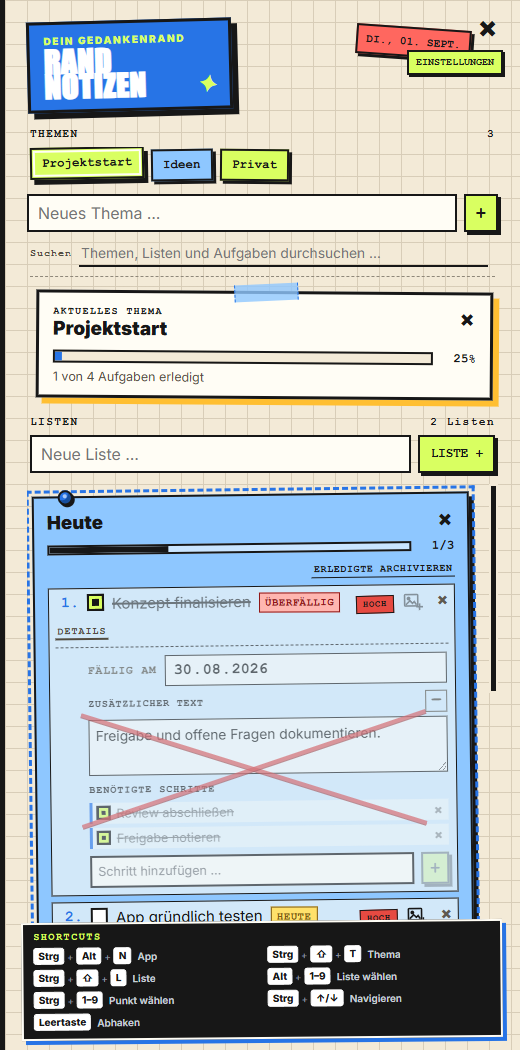
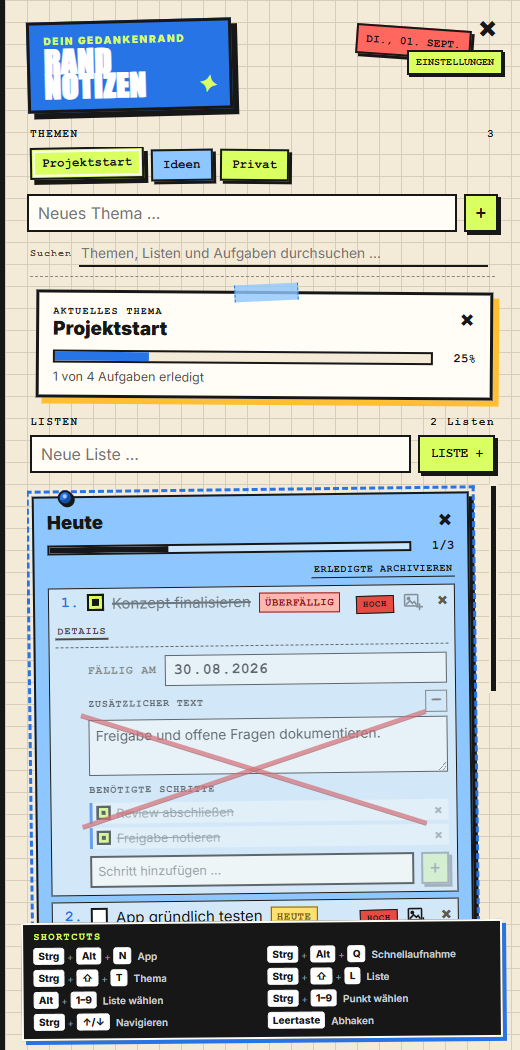
feat: release 0.2.3

Changed region(s): [[0.4923, 0.8838, 0.8615, 1.0], [0.0615, 0.9143, 0.3385, 1.0], [0.1231, 0.3352, 0.2769, 0.3657]]

diff --git a/src/renderer/renderer.js b/src/renderer/renderer.js
@@ -54,6 +54,13 @@ const themeColor = document.querySelector('#theme-color');
 const shortcutDock = document.querySelector('#shortcut-dock');
 const shortcutDockToggle = document.querySelector('#shortcut-dock-toggle');
 const panelElement = document.querySelector('.panel');
+const quickCaptureOverlay = document.querySelector('#quick-capture-overlay');
+const quickCaptureForm = document.querySelector('#quick-capture-form');
+const quickCaptureList = document.querySelector('#quick-capture-list');
+const quickCaptureInput = document.querySelector('#quick-capture-input');
+const quickCaptureEmpty = document.querySelector('#quick-capture-empty');
+const quickCaptureSubmit = document.querySelector('#quick-capture-submit');
+const closeQuickCaptureButton = document.querySelector('#close-quick-capture-button');
 
 const {
   normalizeLanguage,
@@ -394,6 +401,30 @@ function migrateWorkspace(loaded) {
 
 function activeTopic() {
   return workspace.topics.find((topic) => topic.id === workspace.activeTopicId) || null;
+}
+
+function openQuickCapture() {
+  quickCaptureList.replaceChildren();
+  const lists = workspace.topics.flatMap((topic) => topic.lists.map((list) => ({ topic, list })));
+  for (const { topic, list } of lists) {
+    const option = document.createElement('option');
+    option.value = list.id;
+    option.textContent = `${topic.title} · ${list.title}`;
+    quickCaptureList.append(option);
+  }
+  quickCaptureList.value = selectedShortcutListId || activeTopic()?.lists[0]?.id || '';
+  const empty = !lists.length;
+  quickCaptureEmpty.hidden = !empty;
+  quickCaptureList.disabled = empty;
+  quickCaptureInput.disabled = empty;
+  quickCaptureSubmit.disabled = empty;
+  quickCaptureInput.value = '';
+  quickCaptureOverlay.hidden = false;
+  requestAnimationFrame(() => (empty ? closeQuickCaptureButton : quickCaptureInput).focus());
+}
+
+function closeQuickCapture() {
+  quickCaptureOverlay.hidden = true;
 }
 
 function findList(listId) {
@@ -1280,6 +1311,22 @@ confirmOverlay.addEventListener('click', (event) => {
   if (event.target === confirmOverlay) finishConfirmation(false);
 });
 closeImagePreviewButton.addEventListener('click', closeImagePreview);
+closeQuickCaptureButton.addEventListener('click', closeQuickCapture);
+quickCaptureOverlay.addEventListener('click', (event) => {
+  if (event.target === quickCaptureOverlay) closeQuickCapture();
+});
+quickCaptureForm.addEventListener('submit', async (event) => {
+  event.preventDefault();
+  const list = findList(quickCaptureList.value);
+  const text = quickCaptureInput.value.trim();
+  if (!list || !text) return quickCaptureInput.focus();
+  const item = { id: createId(), text, completed: false, details: '', priority: 'none', archived: false, image: null, dueDate: '', steps: [] };
+  list.items.push(item);
+  renderMotion = { type: 'item-add', id: item.id };
+  await persist();
+  closeQuickCapture();
+  render();
+});
 removePreviewImageButton.addEventListener('click', async () => {
   if (!previewedItem || previewedItem.completed) return;
   previewedItem.image = null;
@@ -1295,6 +1342,7 @@ document.addEventListener('keydown', (event) => {
   if (!confirmOverlay.hidden) finishConfirmation(false);
   else if (!settingsOverlay.hidden) closeSettingsPopover();
   else if (!imageOverlay.hidden) closeImagePreview();
+  else if (!quickCaptureOverlay.hidden) closeQuickCapture();
 });
 
 function matchesModifiers(event, { control = false, alt = false, shift = false }) {
@@ -1397,7 +1445,7 @@ document.addEventListener('keydown', (event) => {
     undoLastDelete();
     return;
   }
-  if (!confirmOverlay.hidden || !settingsOverlay.hidden || !imageOverlay.hidden) return;
+  if (!confirmOverlay.hidden || !settingsOverlay.hidden || !imageOverlay.hidden || !quickCaptureOverlay.hidden) return;
   if (handleSearchNavigation(event)) return;
   if (handleTaskNumberShortcut(event)) return;
   if (handleTaskNavigationShortcut(event)) return;
@@ -1442,6 +1490,7 @@ globalThis.notesApp.onLanguageChanged((language) => {
   render();
 });
 globalThis.notesApp.onDesignChanged(applyDesign);
+globalThis.notesApp.onQuickCapture(openQuickCapture);
 
 async function initialize() {
   updateTextScale();

diff --git a/src/renderer/styles.css b/src/renderer/styles.css
@@ -771,6 +771,39 @@ button:disabled { cursor: not-allowed; opacity: .42; }
 .image-preview-actions { display: flex; justify-content: flex-end; }
 .image-preview-remove { font-size: calc(9px * var(--text-scale)); }
 
+.quick-capture-overlay {
+  position: absolute;
+  z-index: 32;
+  inset: 0;
+  display: grid;
+  place-items: center;
+  padding: 28px;
+  background: #17171773;
+  backdrop-filter: blur(2px);
+  animation: overlay-fade-in var(--motion-normal) ease both;
+}
+.quick-capture-card {
+  width: min(100%, 400px);
+  display: grid;
+  gap: 14px;
+  padding: 18px;
+  color: #171717;
+  background: #fffdf5;
+  border: 3px solid #171717;
+  box-shadow: 8px 8px 0 #8ec7ff;
+  transform: rotate(.4deg);
+  animation: note-rise-in var(--motion-slow) var(--motion-ease) both;
+}
+.quick-capture-card header { display: flex; align-items: flex-start; justify-content: space-between; gap: 12px; }
+.quick-capture-card .composer-label { margin: 0 0 3px; }
+.quick-capture-card h2 { margin: 0; font-size: calc(17px * var(--text-scale)); }
+#quick-capture-form { display: grid; gap: 11px; }
+#quick-capture-form label { display: grid; gap: 4px; color: #514b40; font-family: "Courier New", monospace; font-size: calc(9px * var(--text-scale)); font-weight: 900; letter-spacing: .04em; }
+#quick-capture-form select, #quick-capture-form input { min-width: 0; border: 2px solid #171717; border-radius: 0; padding: 9px 10px; color: #171717; background: #fffdf5; font: inherit; font-size: calc(12px * var(--text-scale)); }
+#quick-capture-form select:focus-visible, #quick-capture-form input:focus-visible { outline: 3px solid #8ec7ff; outline-offset: 1px; }
+#quick-capture-submit { justify-self: end; }
+#quick-capture-empty { margin: 0; color: #b82923; font-family: "Courier New", monospace; font-size: calc(10px * var(--text-scale)); font-weight: 900; }
+
 .shortcut-dock {
   position: absolute;
   z-index: 4;
@@ -925,6 +958,10 @@ html[data-theme="dark"] .image-preview-card { color: #d7d1c5; background: #18222
 html[data-theme="dark"] .image-preview-close { color: #171717; }
 html[data-theme="dark"] #task-image-preview { border-color: #7f909c; background: #111a22; }
 html[data-theme="dark"] #image-preview-name { color: #b4bec3; }
+html[data-theme="dark"] .quick-capture-card { color: #d7d1c5; background: #18222d; border-color: #d7d1c5; box-shadow: 8px 8px 0 #8ec7ff; }
+html[data-theme="dark"] .quick-capture-card .delete-button { color: #f4efe3; }
+html[data-theme="dark"] #quick-capture-form label { color: #b4bec3; }
+html[data-theme="dark"] #quick-capture-form select, html[data-theme="dark"] #quick-capture-form input { color: #f4efe3; background: #111a22; border-color: #7f909c; }
 html[data-theme="dark"] .item-description,
 html[data-theme="dark"] .substep-item { background: #111a22; border-color: #7f909c; }
 html[data-theme="dark"] .priority-sticker.priority-none { color: #f4efe3; background: transparent; border-color: #7f909c; }

diff --git a/tests/renderer.test.js b/tests/renderer.test.js
@@ -50,7 +50,7 @@ async function bootRenderer(loadedWorkspace) {
       autostartUpdates.push(enabled);
       return enabled;
     },
-    getVersion: async () => '0.2.2',
+    getVersion: async () => '0.2.3',
     getInstallPath: async () => 'C:\\Programme\\Randnotizen',
     chooseTaskImage: async () => ({
       canceled: false,
@@ -60,6 +60,7 @@ async function bootRenderer(loadedWorkspace) {
     onPanelState: (callback) => { callbacks.panelState = callback; },
     onLanguageChanged: (callback) => { callbacks.languageChanged = callback; },
     onDesignChanged: (callback) => { callbacks.designChanged = callback; },
+    onQuickCapture: (callback) => { callbacks.quickCapture = callback; },
   };
 
   globalThis.document = dom.window.document;
@@ -98,6 +99,34 @@ test.afterEach(() => {
   delete globalThis.RandnotizenI18n;
   delete globalThis.notesApp;
   delete globalThis.requestAnimationFrame;
+});
+
+test('renderer adds a task to the selected list through quick capture', async () => {
+  const { dom, saved, callbacks } = await bootRenderer({
+    version: 6,
+    activeTopicId: 'topic-a',
+    topics: [
+      { id: 'topic-a', title: 'Arbeit', lists: [{ id: 'list-a', title: 'Heute', items: [] }] },
+      { id: 'topic-b', title: 'Privat', lists: [{ id: 'list-b', title: 'Einkaufen', items: [] }] },
+    ],
+  });
+  const { document } = dom.window;
+
+  callbacks.quickCapture();
+  assert.equal(document.querySelector('#quick-capture-overlay').hidden, false);
+  assert.equal(document.querySelector('#quick-capture-list').options.length, 2);
+  assert.equal(document.activeElement, document.querySelector('#quick-capture-input'));
+
+  document.querySelector('#quick-capture-list').value = 'list-b';
+  document.querySelector('#quick-capture-input').value = 'Milch kaufen';
+  document.querySelector('#quick-capture-form').dispatchEvent(new dom.window.Event('submit', {
+    bubbles: true,
+    cancelable: true,
+  }));
+  await flush();
+
+  assert.equal(document.querySelector('#quick-capture-overlay').hidden, true);
+  assert.equal(saved.at(-1).topics[1].lists[0].items[0].text, 'Milch kaufen');
 });
 
 test('renderer supports topics, lists, tasks, shortcuts, settings and confirmations', async () => {
@@ -259,7 +288,7 @@ test('renderer supports topics, lists, tasks, shortcuts, settings and confirmati
   document.querySelectorAll('.settings-group')[2].open = true;
   assert.equal(document.querySelectorAll('.settings-group')[2].open, true);
   assert.equal(document.querySelector('#save-status').tagName, 'OUTPUT');
-  assert.equal(document.querySelector('#version-label').textContent, '0.2.2');
+  assert.equal(document.querySelector('#version-label').textContent, '0.2.3');
   assert.equal(document.querySelector('#install-path-label').textContent, 'C:\\Programme\\Randnotizen');
   assert.equal(document.querySelector('#settings-form button[type="submit"]').textContent, 'SPEICHERN');
   assert.equal(

diff --git a/src/renderer/index.html b/src/renderer/index.html
@@ -244,11 +244,36 @@
         </section>
       </div>
 
+      <div id="quick-capture-overlay" class="quick-capture-overlay" hidden>
+        <section class="quick-capture-card" role="dialog" aria-modal="true" aria-labelledby="quick-capture-title">
+          <header>
+            <div>
+              <p class="composer-label" data-i18n="quickCapture">SCHNELLAUFNAHME</p>
+              <h2 id="quick-capture-title" data-i18n="quickCaptureTitle">Aufgabe schnell erfassen</h2>
+            </div>
+            <button id="close-quick-capture-button" class="delete-button" type="button" aria-label="Schnellaufnahme schließen" data-i18n-aria-label="closeQuickCapture">×</button>
+          </header>
+          <form id="quick-capture-form">
+            <label>
+              <span data-i18n="quickCaptureList">Ziel-Liste</span>
+              <select id="quick-capture-list"></select>
+            </label>
+            <label>
+              <span class="visually-hidden" data-i18n="quickCaptureTitle">Aufgabe schnell erfassen</span>
+              <input id="quick-capture-input" maxlength="120" placeholder="Aufgabe eingeben …" aria-label="Aufgabe schnell erfassen" data-i18n-placeholder="quickCapturePlaceholder" data-i18n-aria-label="quickCaptureTitle" />
+            </label>
+            <p id="quick-capture-empty" hidden data-i18n="quickCaptureEmpty">Lege zuerst eine Liste an.</p>
+            <button id="quick-capture-submit" class="primary" type="submit" data-i18n="quickCaptureSave">HINZUFÜGEN</button>
+          </form>
+        </section>
+      </div>
+
       <footer id="shortcut-dock" class="shortcut-dock">
         <button id="shortcut-dock-toggle" class="shortcut-dock-toggle" type="button" aria-expanded="true" aria-controls="shortcut-grid" aria-label="Tastenkombinationen" data-i18n-aria-label="shortcutsAria">
           <span class="shortcut-dock-title" data-i18n="shortcuts">SHORTCUTS</span>
           <span id="shortcut-grid" class="shortcut-grid">
             <span><kbd data-i18n="controlKey">Strg</kbd><i>+</i><kbd>Alt</kbd><i>+</i><kbd>N</kbd><b data-i18n="shortcutApp">App</b></span>
+            <span><kbd data-i18n="controlKey">Strg</kbd><i>+</i><kbd>Alt</kbd><i>+</i><kbd>Q</kbd><b data-i18n="shortcutQuickCapture">Schnellaufnahme</b></span>
             <span><kbd data-i18n="controlKey">Strg</kbd><i>+</i><kbd>⇧</kbd><i>+</i><kbd>T</kbd><b data-i18n="shortcutTopic">Thema</b></span>
             <span><kbd data-i18n="controlKey">Strg</kbd><i>+</i><kbd>⇧</kbd><i>+</i><kbd>L</kbd><b data-i18n="shortcutList">Liste</b></span>
             <span><kbd>Alt</kbd><i>+</i><kbd>1–9</kbd><b data-i18n="shortcutTasks">Liste wählen</b></span>

diff --git a/tests/main.test.js b/tests/main.test.js
@@ -22,7 +22,7 @@ test('main process wires panel, tray, persistence, settings and lifecycle events
   };
   app.getPath = () => userData;
   app.exit = (code) => { app.exitCode = code; };
-  app.getVersion = () => '0.2.2';
+  app.getVersion = () => '0.2.3';
   app.getLoginItemSettings = () => ({ openAtLogin: Boolean(app.loginSettings?.openAtLogin) });
   app.setLoginItemSettings = (settings) => { app.loginSettings = settings; };
 
@@ -115,6 +115,10 @@ test('main process wires panel, tray, persistence, settings and lifecycle events
   assert.equal(panel.focused, true);
   registered['CommandOrControl+Alt+N']();
   assert.equal(panel.visible, false);
+  registered['CommandOrControl+Alt+Q']();
+  assert.equal(panel.visible, true);
+  assert.equal(panel.focused, true);
+  assert.ok(panel.webContents.messages.some(([channel]) => channel === 'quick-capture:open'));
   tray.emit('click');
   tray.emit('double-click');
   assert.equal(panel.visible, true);
@@ -184,7 +188,7 @@ test('main process wires panel, tray, persistence, settings and lifecycle events
   assert.equal(panel.visible, false);
 
   assert.deepEqual(tray.menu.map((item) => item.type || item.label), ['Open Edge Notes', 'separator', 'Exit']);
-  assert.equal(handlers.get('app:version')(), '0.2.2');
+  assert.equal(handlers.get('app:version')(), '0.2.3');
   assert.equal(
     handlers.get('app:install-path')(),
     path.dirname(process.env.PORTABLE_EXECUTABLE_FILE || process.execPath),

diff --git a/scripts/capture-readme.js b/scripts/capture-readme.js
@@ -32,7 +32,7 @@ async function capturePage(file, outputName, width, height, preparePage) {
   }
   await window.webContents.executeJavaScript('document.fonts.ready');
   window.webContents.invalidate();
-  await new Promise((resolve) => setTimeout(resolve, 100));
+  await new Promise((resolve) => setTimeout(resolve, 300));
   const image = await window.webContents.capturePage();
   fs.writeFileSync(path.join(imagesDirectory, outputName), image.toPNG());
   window.destroy();
@@ -53,6 +53,21 @@ app.once('ready', async () => {
         const input = document.querySelector('#search-input');
         input.value = 'README';
         input.dispatchEvent(new Event('input', { bubbles: true }));
+      })()`,
+    );
+    await capturePage(
+      'index.html',
+      'randnotizen-quick-capture.png',
+      520,
+      700,
+      `(() => {
+        const overlay = document.querySelector('#quick-capture-overlay');
+        const list = document.querySelector('#quick-capture-list');
+        list.append(new Option('Projektstart · Heute', 'list-today'));
+        list.append(new Option('Projektstart · Release', 'list-release'));
+        document.querySelector('#quick-capture-input').value = 'Release-Notizen prüfen';
+        overlay.hidden = false;
+        document.querySelector('#quick-capture-input').focus();
       })()`,
     );
     await capturePage(

diff --git a/src/translations.js b/src/translations.js
@@ -34,6 +34,7 @@ const messagePairs = {
   shortcuts: ['SHORTCUTS', 'SHORTCUTS'],
   controlKey: ['Strg', 'Ctrl'],
   shortcutApp: ['App', 'App'],
+  shortcutQuickCapture: ['Schnellaufnahme', 'Quick capture'],
   shortcutTopic: ['Thema', 'Topic'],
   shortcutList: ['Liste', 'List'],
   shortcutTasks: ['Liste wählen', 'Select list'],
@@ -45,6 +46,13 @@ const messagePairs = {
   addTaskPlaceholder: ['Aufgabe hinzufügen …', 'Add a task …'],
   newTask: ['Neue Aufgabe', 'New task'],
   addTask: ['Aufgabe hinzufügen', 'Add task'],
+  quickCapture: ['SCHNELLAUFNAHME', 'QUICK CAPTURE'],
+  quickCaptureTitle: ['Aufgabe schnell erfassen', 'Capture a task quickly'],
+  quickCaptureList: ['Ziel-Liste', 'Target list'],
+  quickCapturePlaceholder: ['Aufgabe eingeben …', 'Enter a task …'],
+  quickCaptureEmpty: ['Lege zuerst eine Liste an.', 'Create a list first.'],
+  quickCaptureSave: ['HINZUFÜGEN', 'ADD TASK'],
+  closeQuickCapture: ['Schnellaufnahme schließen', 'Close quick capture'],
   deleteTask: ['Aufgabe löschen', 'Delete task'],
   search: ['Suchen', 'Search'],
   searchPlaceholder: ['Themen, Listen und Aufgaben durchsuchen …', 'Search topics, lists and tasks …'],

diff --git a/src/main.js b/src/main.js
@@ -10,6 +10,7 @@ const { createWorkspaceStore } = require('./workspace-store');
 
 const PANEL_WIDTH = 520;
 const HOTKEY = 'CommandOrControl+Alt+N';
+const QUICK_CAPTURE_HOTKEY = 'CommandOrControl+Alt+Q';
 const APP_ICON = path.join(__dirname, 'assets', 'icon.ico');
 const TASK_IMAGE_MIME_TYPES = {
   '.png': 'image/png',
@@ -103,6 +104,11 @@ function togglePanel() {
 function showPanel() {
   setPanelState(true);
   panel.focus();
+}
+
+function openQuickCapture() {
+  showPanel();
+  panel.webContents.send('quick-capture:open');
 }
 
 function workspaceFile() {
@@ -293,6 +299,7 @@ function initializeApplication() {
   createPanel();
   createTray();
   globalShortcut.register(HOTKEY, togglePanel);
+  globalShortcut.register(QUICK_CAPTURE_HOTKEY, openQuickCapture);
 
   ipcMain.handle('workspace:load', loadWorkspace);
   ipcMain.handle('workspace:save', saveWorkspace);

diff --git a/tests/preload.test.js b/tests/preload.test.js
@@ -78,9 +78,11 @@ test('preload exposes the complete renderer API and forwards IPC events', async 
   exposedApi.onPanelState((value) => received.push(value));
   exposedApi.onLanguageChanged((value) => received.push(value));
   exposedApi.onDesignChanged((value) => received.push(value));
+  exposedApi.onQuickCapture(() => received.push('quick-capture'));
   listeners.get('panel-state')({}, { open: true });
   listeners.get('language:changed')({}, 'en');
   listeners.get('design:changed')({}, 'dark');
+  listeners.get('quick-capture:open')({});
 
-  assert.deepEqual(received, [{ open: true }, 'en', 'dark']);
+  assert.deepEqual(received, [{ open: true }, 'en', 'dark', 'quick-capture']);
 });

diff --git a/scripts/readme-preload.js b/scripts/readme-preload.js
@@ -75,10 +75,11 @@ contextBridge.exposeInMainWorld('notesApp', {
   ],
   getAutostart: async () => true,
   setAutostart: async (enabled) => enabled,
-  getVersion: async () => '0.2.2',
+  getVersion: async () => '0.2.3',
   getInstallPath: async () => 'C:\\Users\\Niklas\\AppData\\Local\\Programs\\Randnotizen',
   hide: () => undefined,
   onPanelState: (callback) => { panelCallbacks.panelState = callback; },
   onLanguageChanged: (callback) => { panelCallbacks.language = callback; },
   onDesignChanged: (callback) => { panelCallbacks.design = callback; },
+  onQuickCapture: (callback) => { panelCallbacks.quickCapture = callback; },
 });

diff --git a/tests/styles.test.js b/tests/styles.test.js
@@ -1,0 +1,13 @@
+const test = require('node:test');
+const assert = require('node:assert/strict');
+const fs = require('node:fs');
+const path = require('node:path');
+
+const styles = fs.readFileSync(path.join(__dirname, '..', 'src', 'renderer', 'styles.css'), 'utf8');
+
+test('quick-capture close button keeps a high-contrast color in dark mode', () => {
+  assert.match(
+    styles,
+    /html\[data-theme="dark"\] \.quick-capture-card \.delete-button \{ color: #f4efe3; \}/,
+  );
+});

diff --git a/src/preload.js b/src/preload.js
@@ -18,4 +18,5 @@ contextBridge.exposeInMainWorld('notesApp', {
   onPanelState: (callback) => ipcRenderer.on('panel-state', (_event, state) => callback(state)),
   onLanguageChanged: (callback) => ipcRenderer.on('language:changed', (_event, language) => callback(language)),
   onDesignChanged: (callback) => ipcRenderer.on('design:changed', (_event, design) => callback(design)),
+  onQuickCapture: (callback) => ipcRenderer.on('quick-capture:open', () => callback()),
 });
